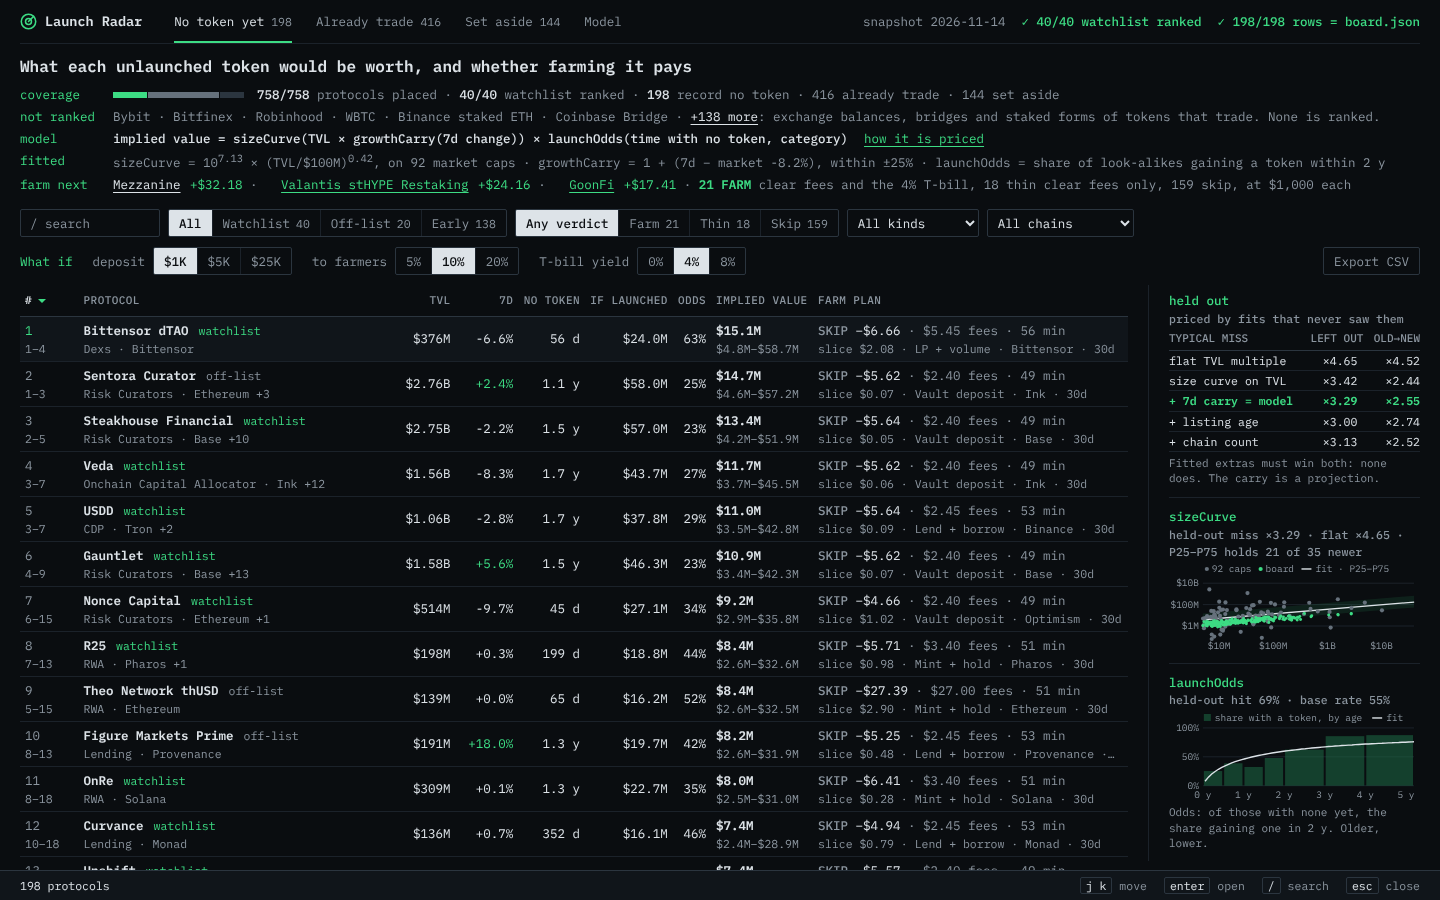
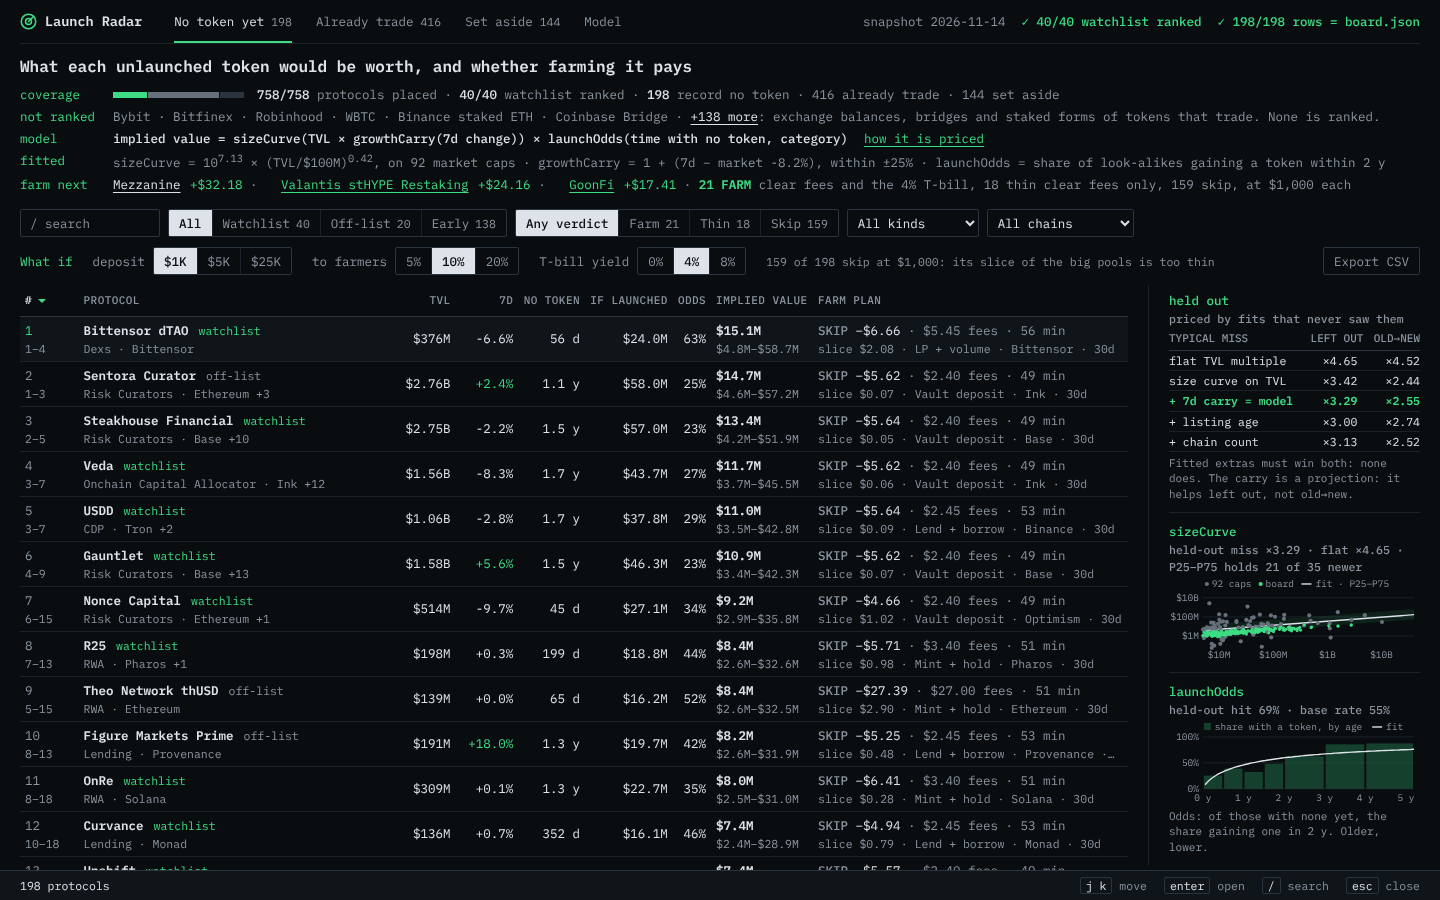
Say why the top of the board skips, and what the 7-day carry's tests show
The what-if row now says in words what the first screen shows in rows:
159 of 198 plans skip at $1,000 because a deposit that size is too thin
a slice of the big pools. The count follows the deposit chosen.

The held-out note is exact about the 7-day carry: it is a projection,
not a fitted term, and it helps on the left-out test but not on the
older-to-newer one.

Claude-Session: https://claude.ai/code/session_01QSfWYUmCLaNGnHoQ39i4KV

diff --git a/token-radar-01/dashboard/radar.js b/token-radar-01/dashboard/radar.js
@@ -39,7 +39,7 @@ function filterRows() {
     (!state.family || r.family === state.family) && (!state.chain || r.chains.includes(state.chain)) && (!q || text(r).includes(q)));
 }
 function sortRows(rows, cols) {
-  // a tab with no column of the chosen key opens on its largest protocols
+  // the other tabs open on their largest protocols
   const own = cols.find((c) => c.key === state.sort), col = own || cols.find((c) => c.key === 'tvl'), dir = own ? state.dir : -1;
   return rows.sort((p, q) => { const a = col.val(p), b = col.val(q); return (a < b ? -1 : a > b ? 1 : 0) * dir || p.tvl - q.tvl; });
 }
@@ -113,7 +113,7 @@ function toolbar() {
     <select class='wide' data-pick='family' aria-label='Kind of protocol'><option value=''>All kinds</option>${[...new Set(b.map((r) => r.family))].sort().map((f) => `<option${state.family === f ? ' selected' : ''}>${esc(f)}</option>`).join('')}</select>
     <select data-pick='chain' aria-label='Chain'><option value=''>All chains</option>${chains.map(([c]) => `<option${state.chain === c ? ' selected' : ''}>${esc(c)}</option>`).join('')}</select></nav>
     <nav class='tools what'><b>What if</b><label>deposit${sizeSeg()}</label><label>to farmers${seg('share', [[0.05, '5%'], [0.1, '10%'], [0.2, '20%']])}</label>
-    <label>T-bill yield${seg('hurdle', [[0, '0%'], [0.04, '4%'], [0.08, '8%']])}</label><button class='ghost' data-export>Export CSV</button></nav>`;
+    <label>T-bill yield${seg('hurdle', [[0, '0%'], [0.04, '4%'], [0.08, '8%']])}</label><small class='hint'>${b.filter((r) => r.plan.verdict === 'Skip').length} of ${b.length} skip at ${cash(state.deposit)}: its slice of the big pools is too thin</small><button class='ghost' data-export>Export CSV</button></nav>`;
 }
 
 /** The status line: what is shown, and the keys that drive the page. */
@@ -129,7 +129,7 @@ function renderRows() {
   const basket = state.tab === 'pre' && rows.length > 0 && rows.length < all ? ` · farming all ${rows.length} at ${cash(state.deposit)} each nets <b>${signed(sum('net'))}</b> for ${Math.round(sum('minutes') / 60)} h of work` : '';
   const note = state.tab === 'traded' ? 'A token already trades for these, so they are never ranked. Those with a market cap that stand alone are what the size curve is fitted on.'
     : state.tab === 'aside' ? `These record no token, but each is a form of one that already trades and launches none of its own, so they are never ranked.`
-    : `An implied value is this radar's estimate, not a forecast that a token launches. Farm, Thin and Skip are each plan's verdict at the what-if settings above.`;
+    : `An implied value is this radar's estimate, not a forecast that a token launches.`;
   document.getElementById('rows').innerHTML = state.tab === 'pre' ? `${table(cols, rows)}<p class='note'>${note}</p>` : `<p class='note first'>${note}</p>${table(cols, rows)}`;
   statusLine(`${rows.length === all ? all : `${rows.length} of ${all}`} protocols${basket}`);
   moveCursor(cursor);
@@ -200,10 +200,10 @@ const testsTable = () => `<table class='tests'><thead><tr><th>Typical miss</th><
  *  drawn on the snapshot's own protocols, and the held-out tests of every pricing rule tried. */
 function evidence() {
   const o = CHECK.odds, t = CHECK.tests, pane = (name, about, body) => `<div><h3><i>${name}</i><small>${about}</small></h3>${body}</div>`;
-  return `<aside class='proof' aria-label='The model’s evidence'>
-    ${pane('sizeCurve', `held-out miss ×${CHECK.miss.toFixed(2)} · flat ×${t[0].miss.toFixed(2)} · P25–P75 holds ${CHECK.holds} of ${CHECK.test} newer`, scatter(null, 252, 90))}
-    ${pane('launchOdds', `held-out hit ${pct(o.hit)} · base rate ${pct(o.base)}`, oddsChart(null, 252, 90) + `<p class='legend'>Odds: of those with none yet, the share gaining one in ${M.horizon / 365} y. Older, lower.</p>`)}
-    ${pane('held out', 'priced by fits that never saw them', testsTable() + `<p class='legend'>Fitted extras must win both: none does. The carry is a projection.</p>`)}
+  return `<aside class='proof'>
+    ${pane('sizeCurve', `held-out miss ×${CHECK.miss.toFixed(2)} · flat ×${t[0].miss.toFixed(2)} · P25–P75 holds ${CHECK.holds} of ${CHECK.test} newer`, scatter(null, 252, 84))}
+    ${pane('launchOdds', `held-out hit ${pct(o.hit)} · base rate ${pct(o.base)}`, oddsChart(null, 252, 84) + `<p class='legend'>Odds: of those with none yet, the share gaining one in ${M.horizon / 365} y. Older, lower.</p>`)}
+    ${pane('held out', 'priced by fits that never saw them', testsTable() + `<p class='legend'>Fitted extras must win both: none does. The carry is a projection: it helps left out, not old→new.</p>`)}
   </aside>`;
 }
 

diff --git a/token-radar-01/dashboard/style.css b/token-radar-01/dashboard/style.css
@@ -9,8 +9,7 @@
   --mono: 'IBM Plex Mono', ui-monospace, 'SF Mono', Menlo, Consolas, monospace;
 }
 * { box-sizing: border-box; }
-body { margin: 0; background: var(--screen); color: var(--ink); font: 12.5px/1.5 var(--mono); -webkit-font-smoothing: antialiased; caret-color: var(--green); }
-::selection { background: var(--green); color: var(--screen); }
+body { margin: 0; background: var(--screen); color: var(--ink); font: 12.5px/1.5 var(--mono); -webkit-font-smoothing: antialiased; }
 #app { max-width: 1480px; margin: 0 auto; padding: 0 20px; } .boot { padding: 64px 0; }
 h1, h2, h3, p, ol { margin: 0; padding: 0; } button, input, select { font: inherit; color: inherit; }
 button { padding: 0; border: 0; background: none; cursor: pointer; } code { font: inherit; }
@@ -110,7 +109,7 @@ h3 { display: flex; align-items: center; gap: 10px; margin: 12px 0 6px; font-siz
 .tests .used td { color: var(--green); font-weight: 600; }
 
 /* narrower windows give up the least-needed things first */
-@media (max-width: 1260px) { .meta span { display: none; } }
+@media (max-width: 1260px) { .meta span, .hint { display: none; } }
 @media (max-width: 1180px) { .cost i, .sl, .meta b:first-of-type { display: none; } }
 @media (max-width: 1120px) {
   .proof > div:last-child { display: none; } .proof { grid-template-columns: 1fr 1fr; }
